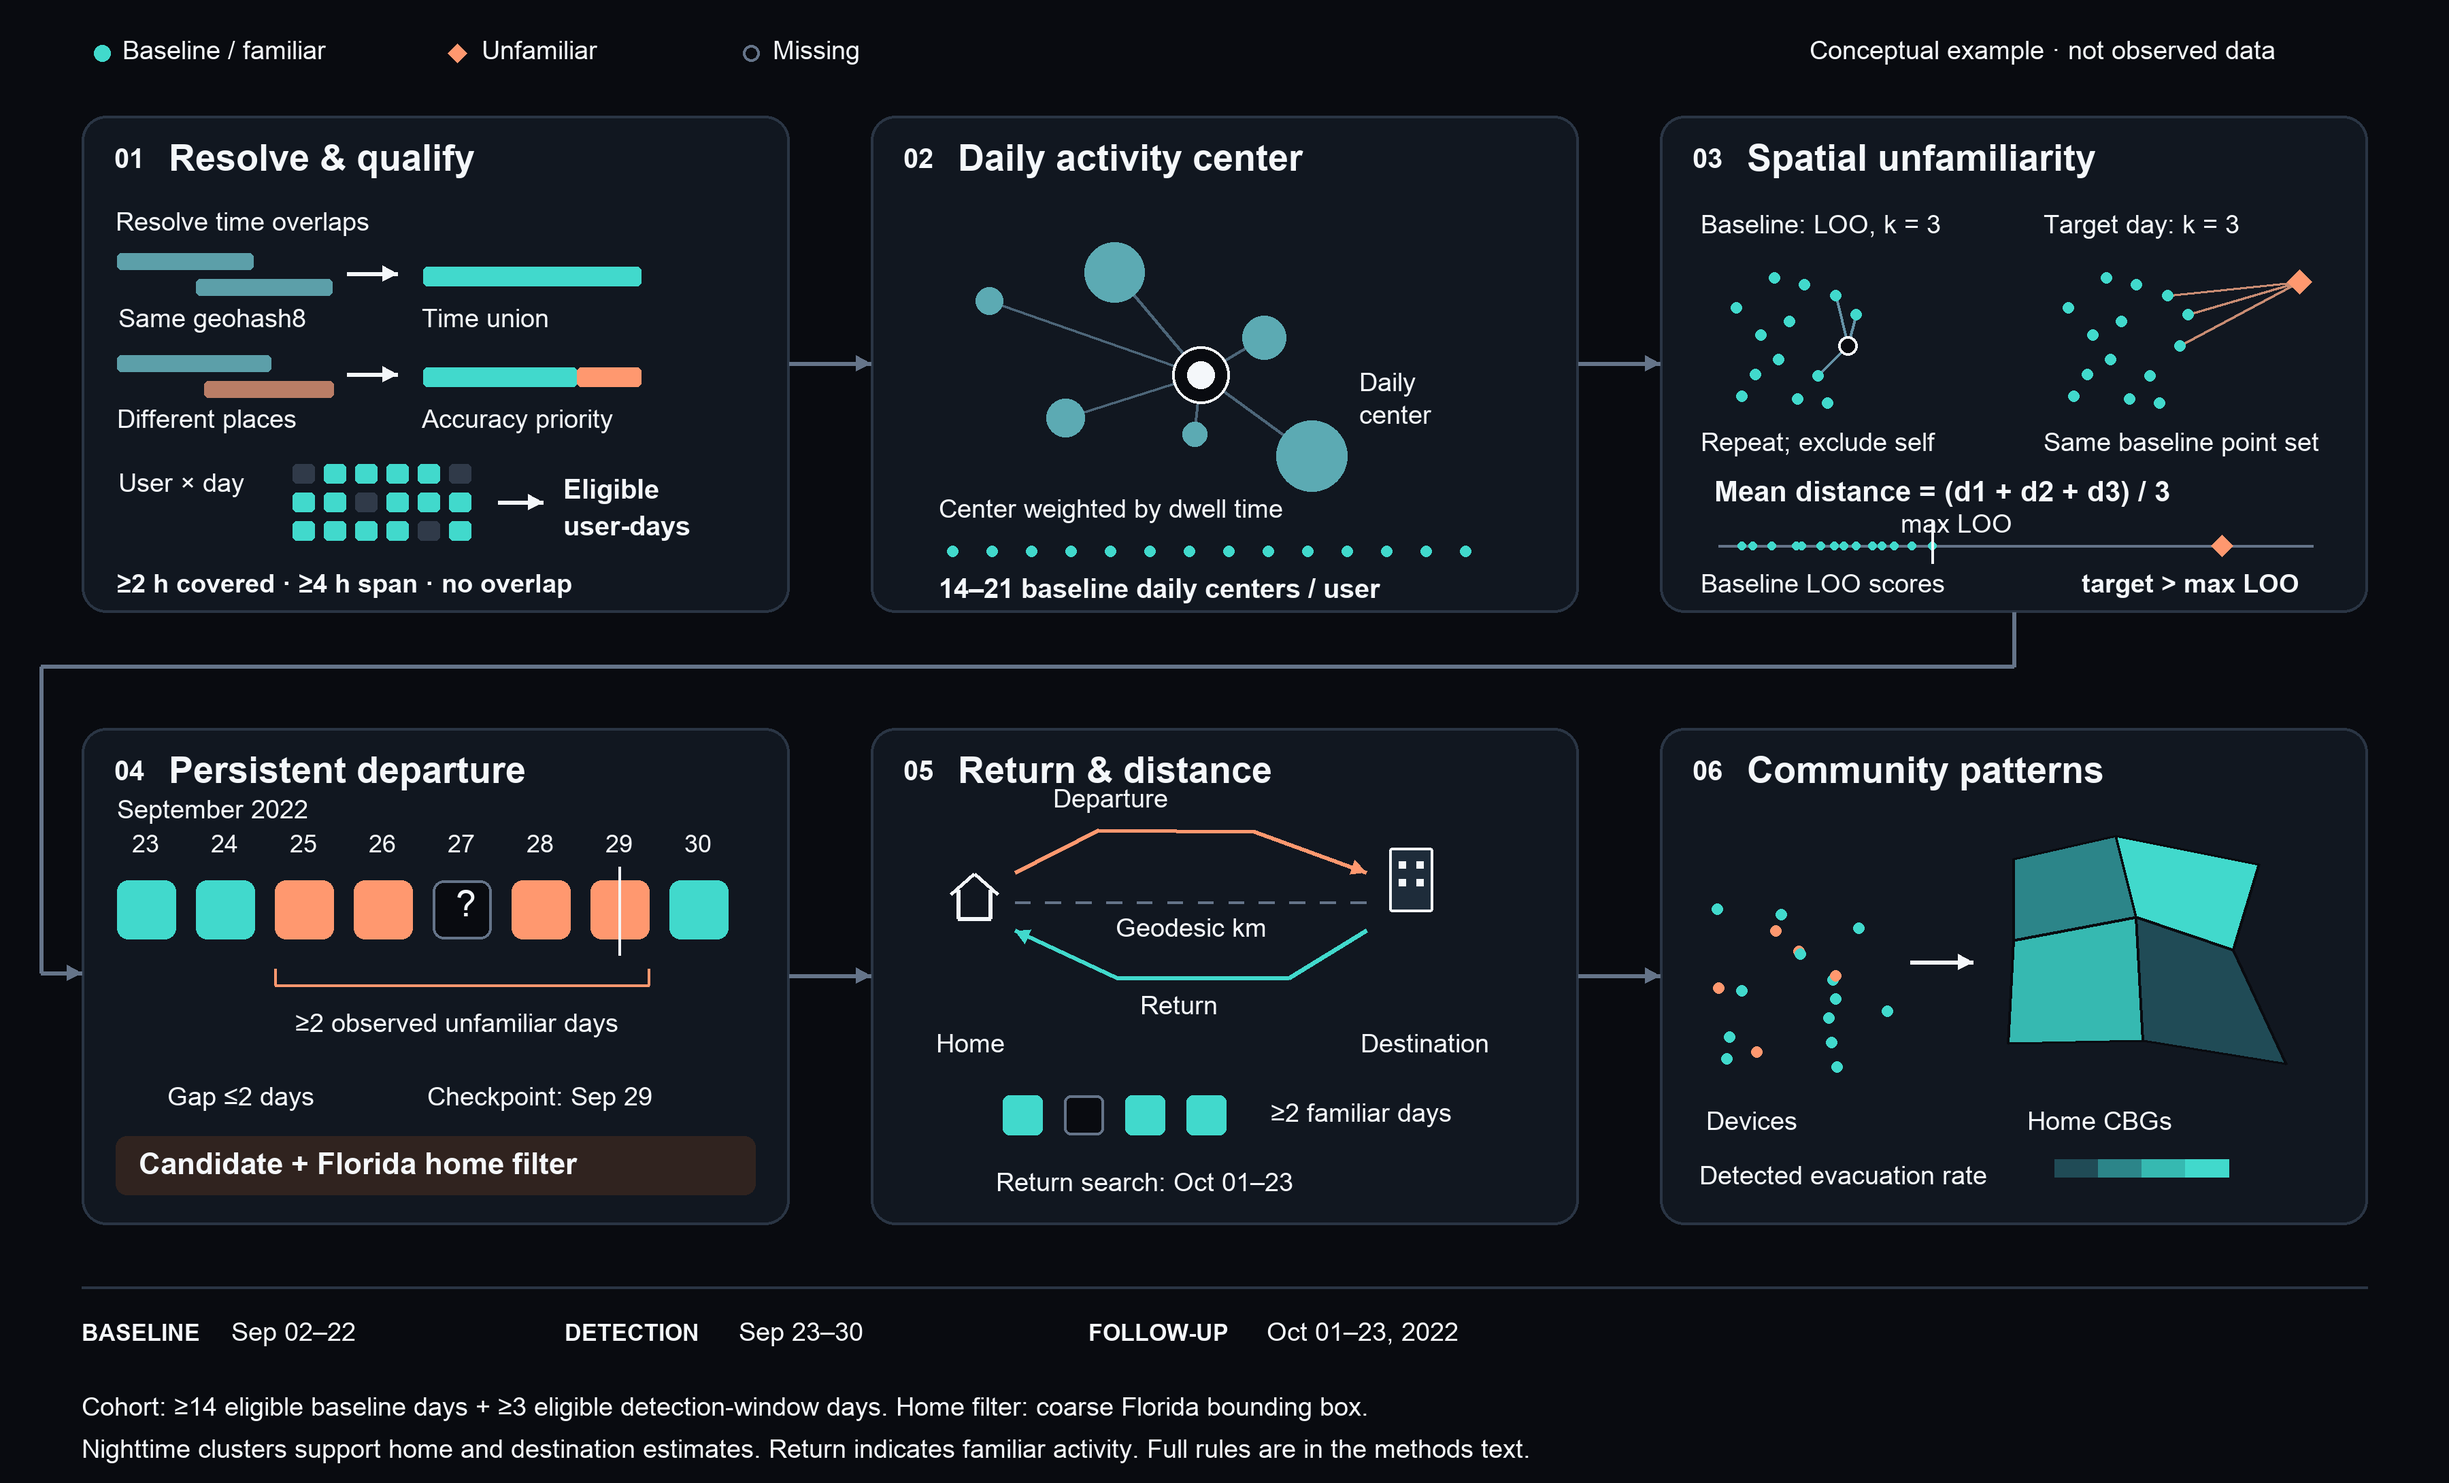
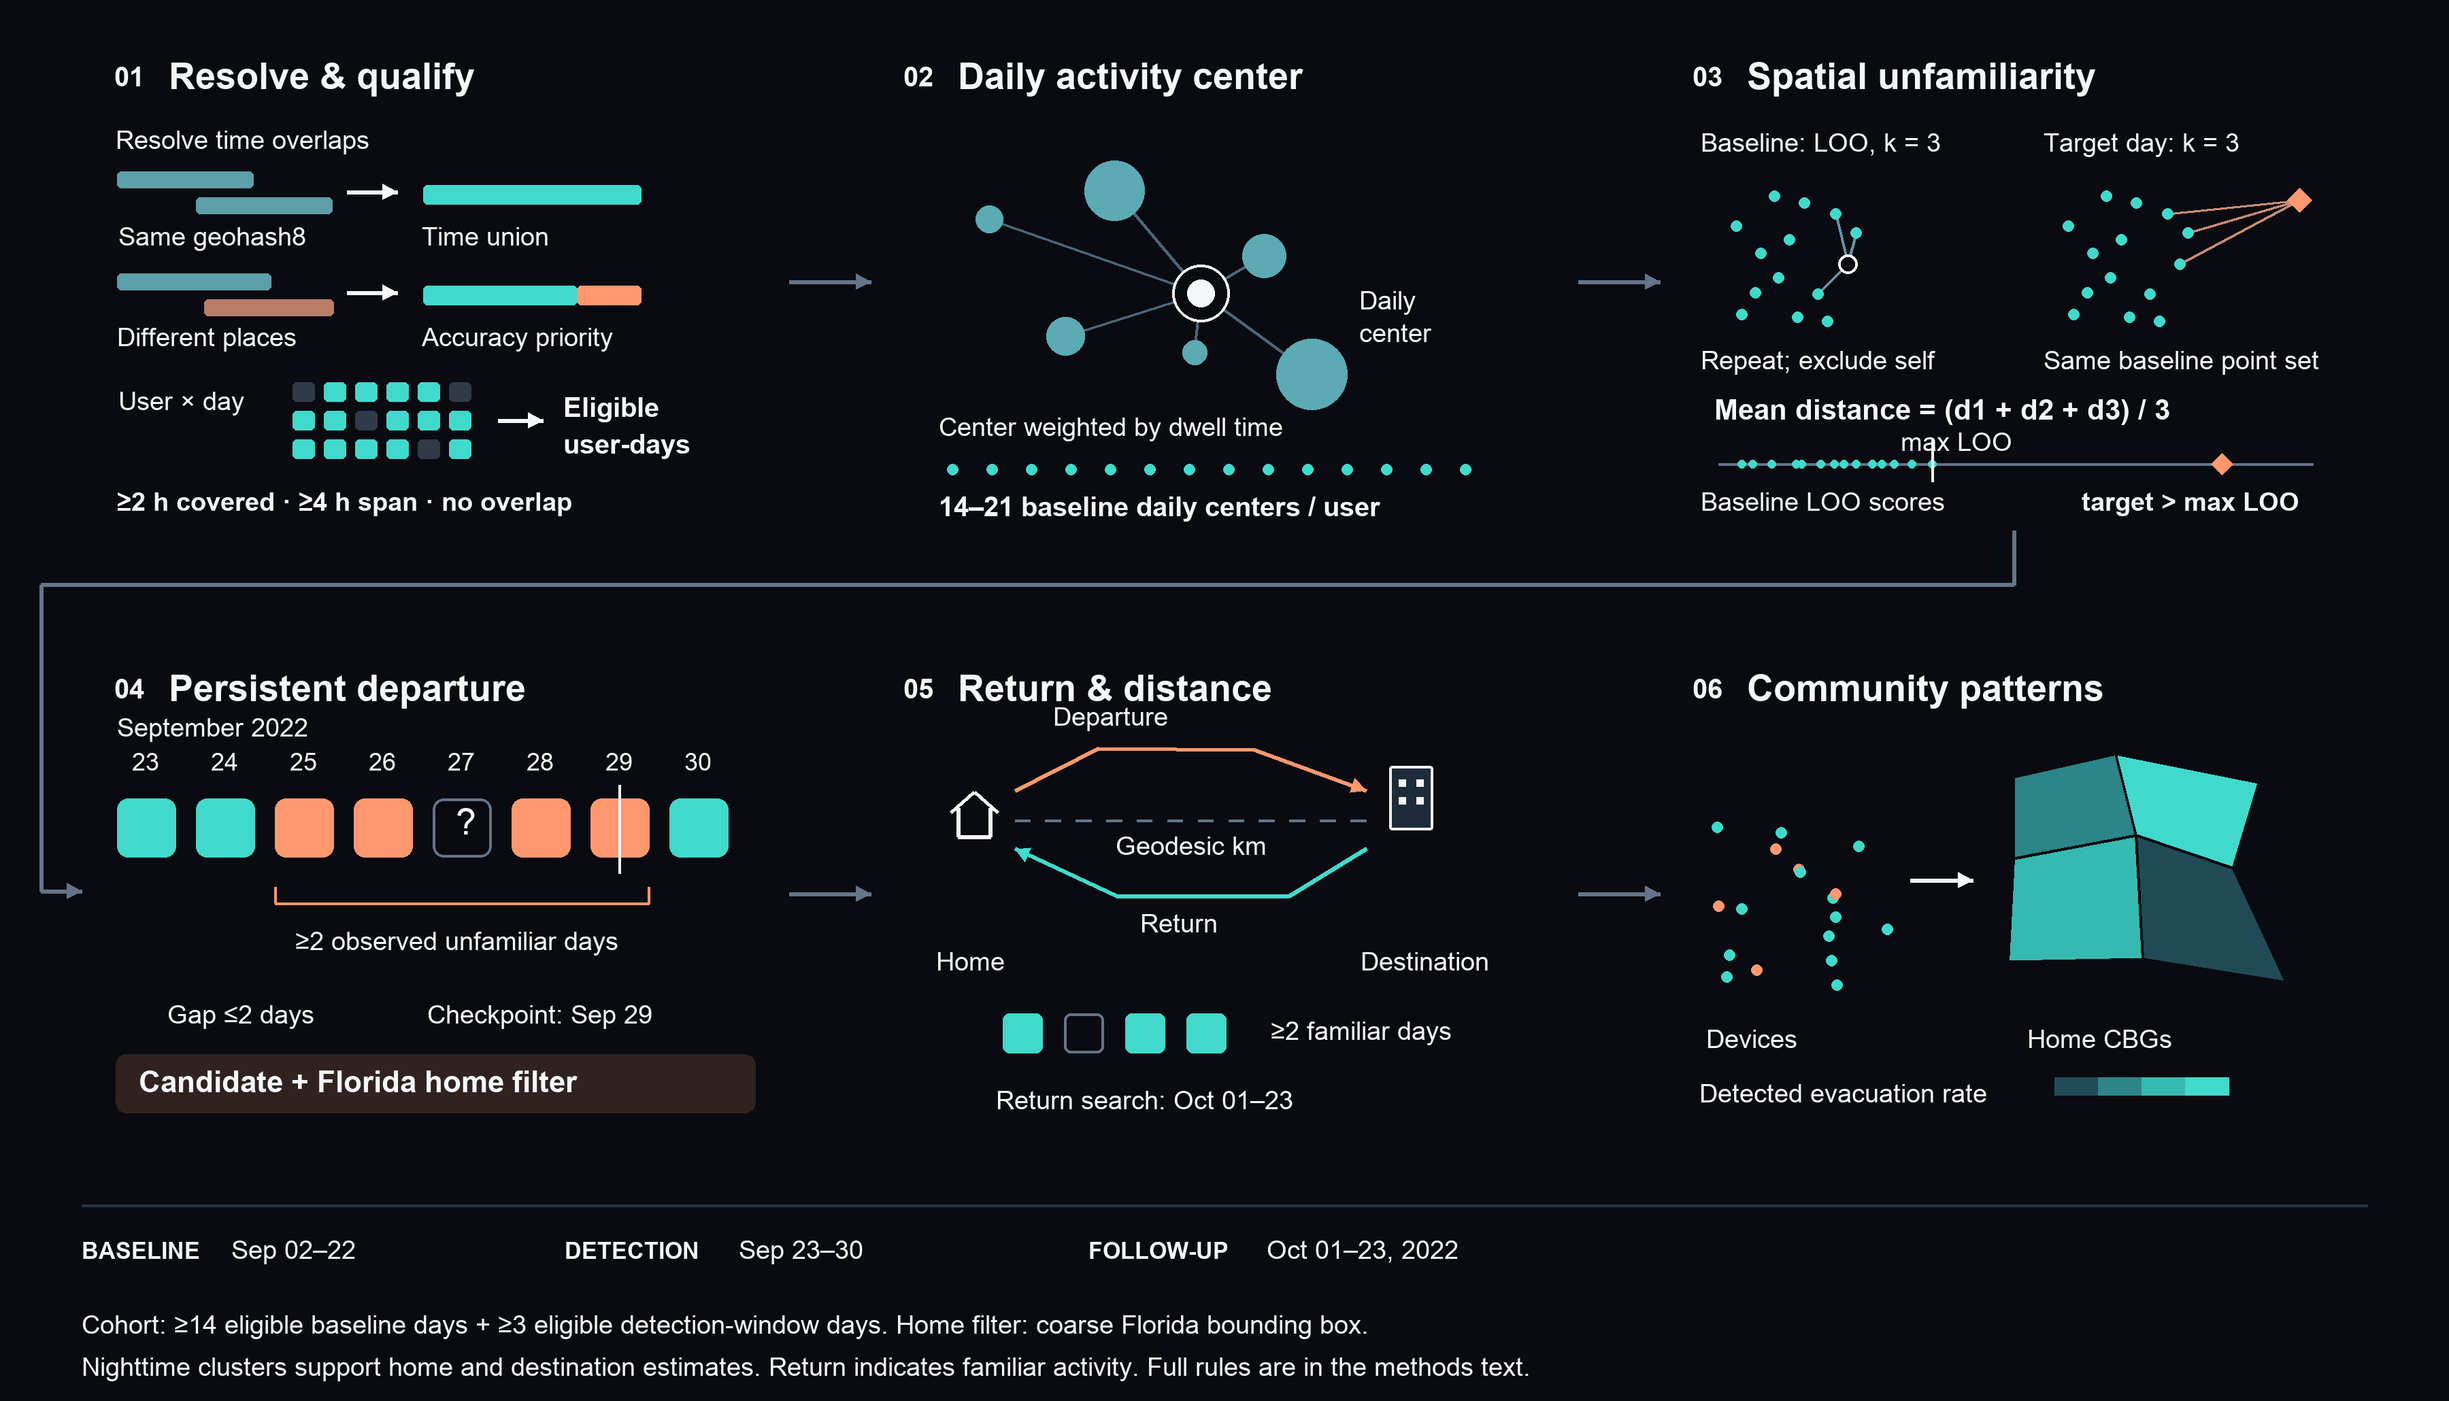
Page 2: enlarge the framework figure, swap in the revised diagram
The figure had been capped to the site's narrow 860px prose column,
which read as too small next to Table 2's wide layout above it. It now
fills the same wide 1280px column as the table, matching its width
exactly for a more legible, consistent presentation.

Also swaps in the updated framework-overview.png the source diagram was
revised to.

Claude-Session: https://claude.ai/code/session_014KxCRNmkgMpq6aRnFLMuMb

diff --git a/css/main.css b/css/main.css
@@ -155,12 +155,12 @@ sup.cite a:hover { text-decoration: underline; }
 .data-table--compact td:first-child { color: var(--muted-dim); }
 
 /* ---- framework overview figure (Page 2) ------------------------------------ */
-/* Table 2 needs the page's wide 1280px column, but the figure reads better
-   at the site's normal prose width - capped and centered independently of
-   the wide container it sits inside, rather than stretched to fill it. */
+/* Fills the page's wide 1280px column, same width as Table 2 above it, so
+   the six-panel diagram stays legible at a glance rather than shrinking to
+   the narrower prose column. */
 .figure-wrap {
-  max-width: 860px; border: 1px solid var(--card-border); border-radius: 10px; padding: 12px;
-  background: var(--card-bg); margin: 20px auto 12px;
+  border: 1px solid var(--card-border); border-radius: 10px; padding: 12px;
+  background: var(--card-bg); margin: 20px 0 12px;
 }
 .figure-wrap img { display: block; width: 100%; max-width: 100%; height: auto; border-radius: 6px; }
 
